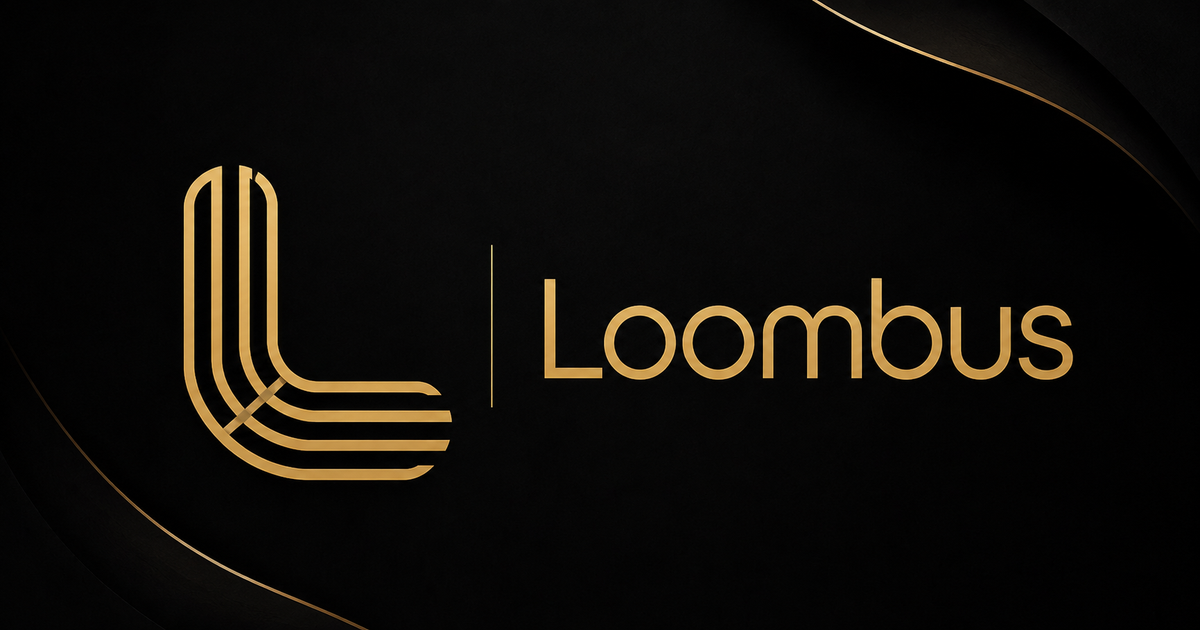
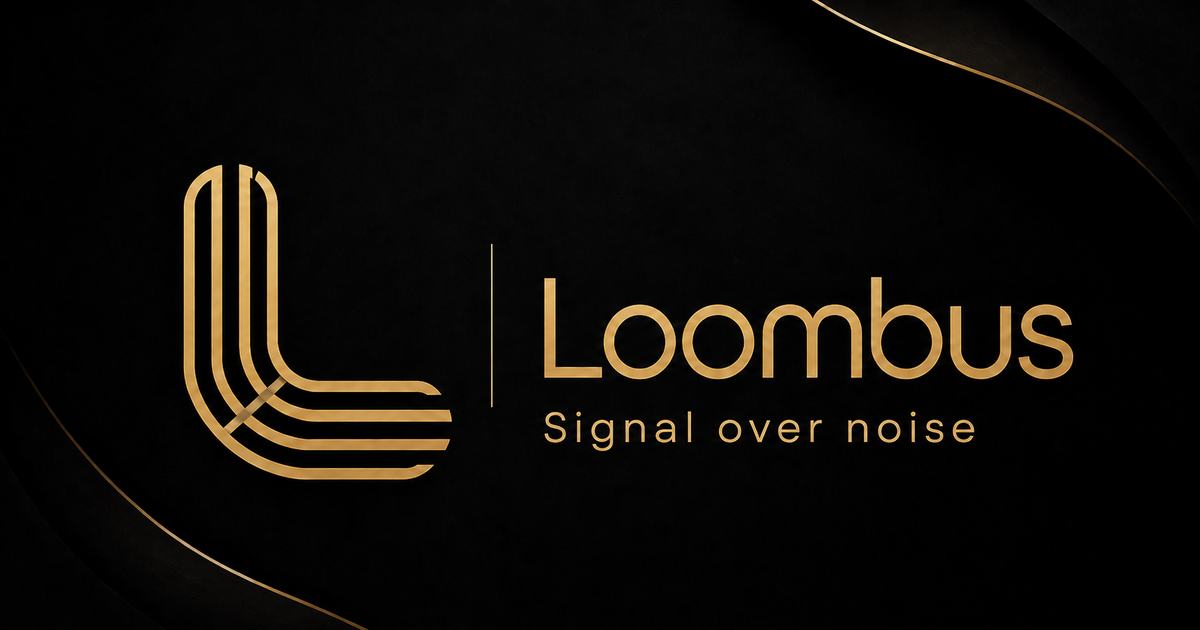
Update Loombus social sharing image

diff --git a/docs/brand/opengraph-image-v2.md b/docs/brand/opengraph-image-v2.md
@@ -1,0 +1,14 @@
+# Loombus Open Graph Image v2
+
+The primary social-sharing image uses the official black-and-gold Loombus identity with the platform promise:
+
+**Signal over noise**
+
+## Asset contract
+
+- Production path: `src/app/opengraph-image.png`
+- Dimensions: 1200 x 630 pixels
+- Format: PNG
+- Brand promise has no period
+- No feature-specific claim appears in the image
+- The full platform description remains in page metadata, where it can be updated without rebuilding the image
